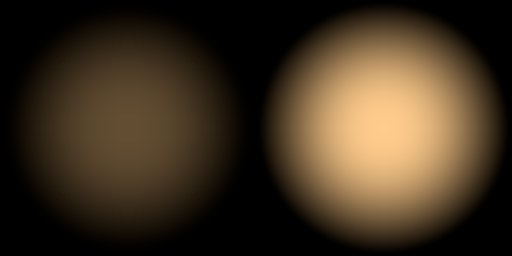
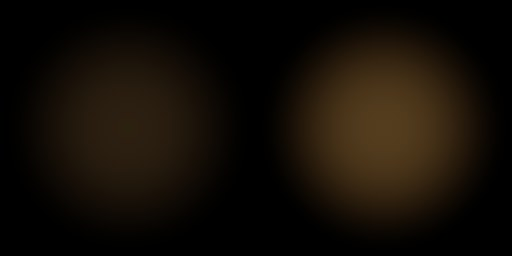
Luz de las luminarias: la mancha del visor como incremento de pantalla medido en Blender
El visor suma la mancha sobre el cuadro ya codificado en sRGB, así que la textura guarda
enc(A + (C - A)·perfil) - enc(A), con A (suelo sin luminaria) y C (bajo el cabezal) medidos por canal
en review/08_exterior/balcon_noche.png con tools/medir_08.py. Con la textura anterior (albedo x
iluminancia) la calzada bajo la luminaria salía 9 veces más clara que en Blender.

diff --git a/build/ext_texturas.py b/build/ext_texturas.py
@@ -16,7 +16,8 @@ cada corrida escribe los mismos archivos. Salida en assets/texturas/exterior/ (J
 - calle.jpg (1024 px): corte de la calle de 14 m (vereda de 3, calzada de 8 y vereda de 3) a lo ancho (u) y 12 m a lo
   largo (v, se repite): baldosas de vereda, solera, faja de estacionamiento de 2 m junto a la vereda A, dos pistas de
   3 m con huellas de rodado y la línea central segmentada de 3 m entre ellas.
-- luz_suelo_emision.jpg (512 × 256): la mancha de luz de una luminaria sobre el suelo, oscuro | vereda.
+- luz_suelo_emision.jpg (512 × 256): la mancha de luz de una luminaria sobre el suelo, oscuro | vereda, como incremento
+  de pantalla de noche (lo que el visor suma al cuadro).
 - terreno.jpg (512 px, 8 m): pasto del antejardín y de los lotes cercanos.
 - fachada_propia.jpg (512 px, 4 m): pintura exterior del edificio propio (el color de Depto_Mat_MuroExterior).
 - lejanos.jpg (512 px, 24 m) y lejanos_emision.jpg (256 px): ventanas tenues de las siluetas lejanas.
@@ -410,11 +411,14 @@ def lejanos():
 # (exterior.emision) sobre la vereda, la calzada y el pasto, bajo cada cabezal. Blender alumbra con un foco por
 # luminaria (tools/render_08.py) y esta textura sigue el mismo perfil: iluminancia de una fuente puntual a `alto` m
 # (cos³ θ / h²) por la máscara de foco de Eevee (smoothstep de (cos θ − cos α) / ((1 − cos α)·borde), α el medio
-# ángulo). La mitad izquierda es la de las superficies oscuras (asfalto y pasto) y la derecha la de la vereda: lo que
-# se suma es albedo × iluminancia, y la baldosa refleja RAZON_VEREDA veces más que el asfalto (medido en los colores
-# de calle(): #aaa69d contra #3d3e40, luminancia lineal 0,380 / 0,047). Diseño: alto, ángulo y borde.
+# ángulo). Diseño: alto, ángulo y borde.
+# El visor la suma al cuadro ya codificado en sRGB (mezcla aditiva de three.js sobre el lienzo): la textura guarda el
+# incremento de pantalla que hace falta de noche, enc(A + (C − A)·perfil) − enc(A), con A el suelo sin luminaria cerca
+# y C bajo el cabezal, por canal, medidos en Blender (review/08_exterior/balcon_noche.png, tools/medir_08.py: regiones
+# noche.calzada_entre / calzada_luz y noche.vereda_entre / vereda_luz, RGB medio de 0 a 255). La mitad izquierda es la
+# del asfalto (también el pasto) y la derecha la de la vereda, que refleja ≈ 8 veces más.
 LUZ_SUELO = dict(alto=6.90, medio_angulo_deg=45.0, borde=1.0, color="#ffcc8c")
-RAZON_VEREDA = 8.1
+LUZ_NOCHE = {"oscuro": ((9.4, 9.5, 10.7), (53.6, 41.2, 27.8)), "claro": ((27.5, 29.4, 32.0), (111.4, 89.9, 62.2))}
 
 
 def perfil_luz_suelo(r):
@@ -436,18 +440,22 @@ def _a_srgb(lin):
     return np.where(lin <= 0.0031308, lin * 12.92, 1.055 * lin ** (1 / 2.4) - 0.055).astype(np.float32)
 
 
+def _a_lineal(srgb):
+    srgb = np.asarray(srgb, np.float64)
+    return np.where(srgb <= 0.04045, srgb / 12.92, ((srgb + 0.055) / 1.055) ** 2.4)
+
+
 def luz_suelo():
-    """Emisión (512 × 256, sRGB): dos cuadrados de 2·radio de lado con la mancha centrada, oscuro | vereda."""
+    """Emisión (512 × 256, valores de pantalla): dos cuadrados de 2·radio de lado con la mancha centrada, oscuro | vereda."""
     n = 256
     R = radio_luz_suelo()
     t = (np.arange(n) + 0.5) / n * 2 - 1
-    r = np.hypot(t[None, :], t[:, None]) * R
-    base = perfil_luz_suelo(r)
-    col_lin = np.array([DT.col(LUZ_SUELO["color"])[k] for k in range(3)], np.float32)
-    col_lin = np.where(col_lin <= 0.04045, col_lin / 12.92, ((col_lin + 0.055) / 1.055) ** 2.4)
-    oscuro = base[..., None] * col_lin[None, None, :] / RAZON_VEREDA
-    claro = base[..., None] * col_lin[None, None, :]
-    return _a_srgb(np.concatenate([oscuro, claro], axis=1))
+    p = perfil_luz_suelo(np.hypot(t[None, :], t[:, None]) * R)[..., None]
+    mitades = []
+    for clave in ("oscuro", "claro"):
+        a, c = (_a_lineal(np.array(v) / 255.0) for v in LUZ_NOCHE[clave])
+        mitades.append(np.clip(_a_srgb(a + (c - a) * p) - _a_srgb(a), 0.0, 1.0))
+    return np.concatenate(mitades, axis=1).astype(np.float32)
 
 
 def uv_luz_suelo(dx, dy, claro):

diff --git a/build/depto_08_exterior.py b/build/depto_08_exterior.py
@@ -886,7 +886,7 @@ def mobiliario(col):
 
 
 # Suelo alrededor de las luminarias (x0, x1, y0, y1, z, clara): la mancha de luz se corta en estas piezas para quedar
-# 3 cm sobre cada superficie; `clara` elige la mitad de la textura de la vereda (albedo RAZON_VEREDA veces el del
+# 3 cm sobre cada superficie; `clara` elige la mitad de la textura de la vereda (que refleja ≈ 8 veces más que el
 # asfalto) o la de lo oscuro (asfalto y pasto).
 INF = 1.0e3
 SUELO_LUMINARIAS = (
